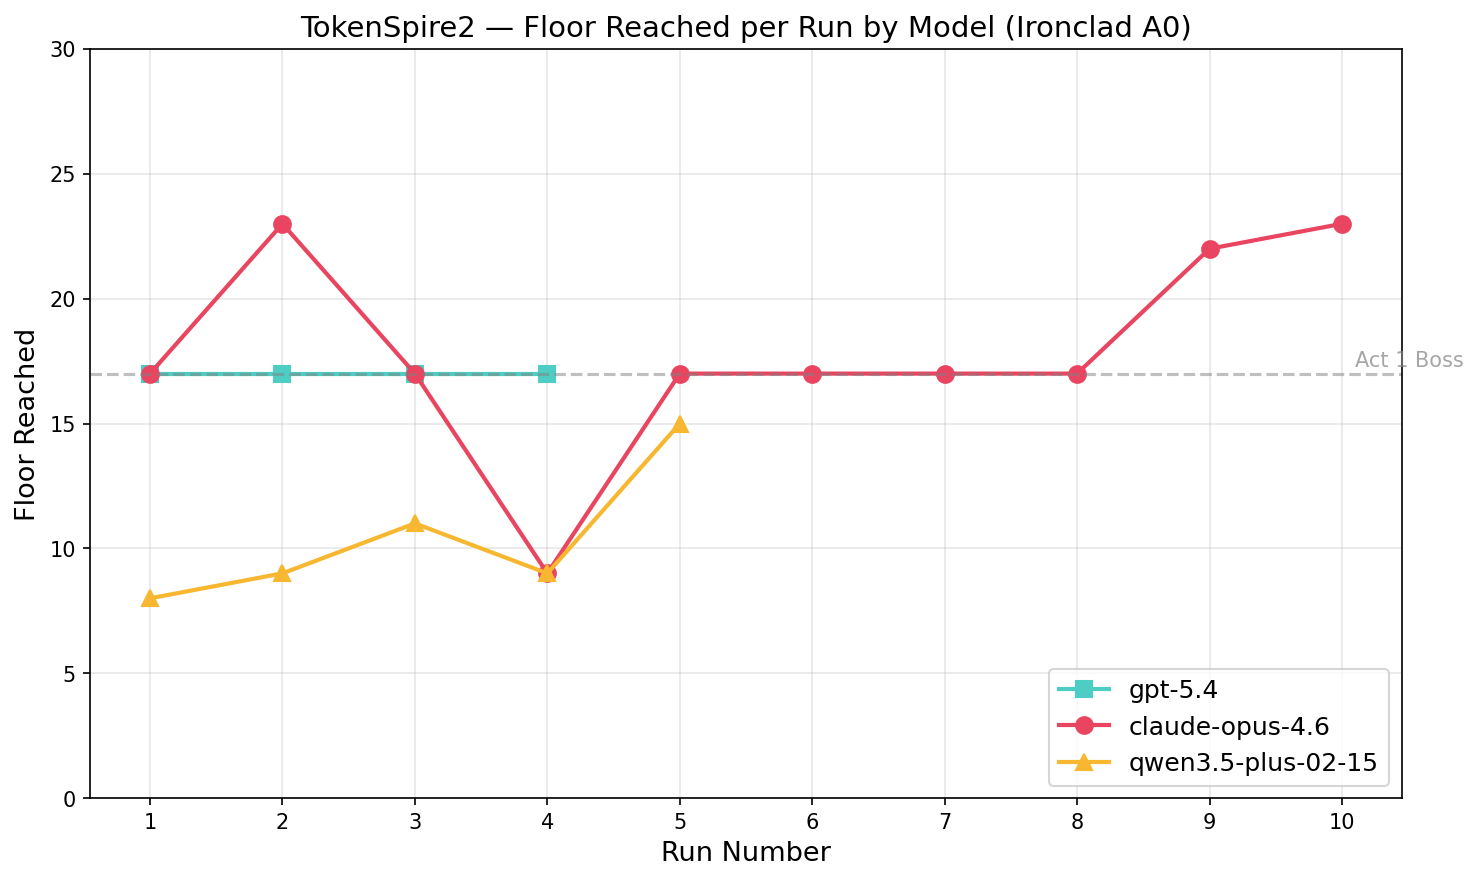
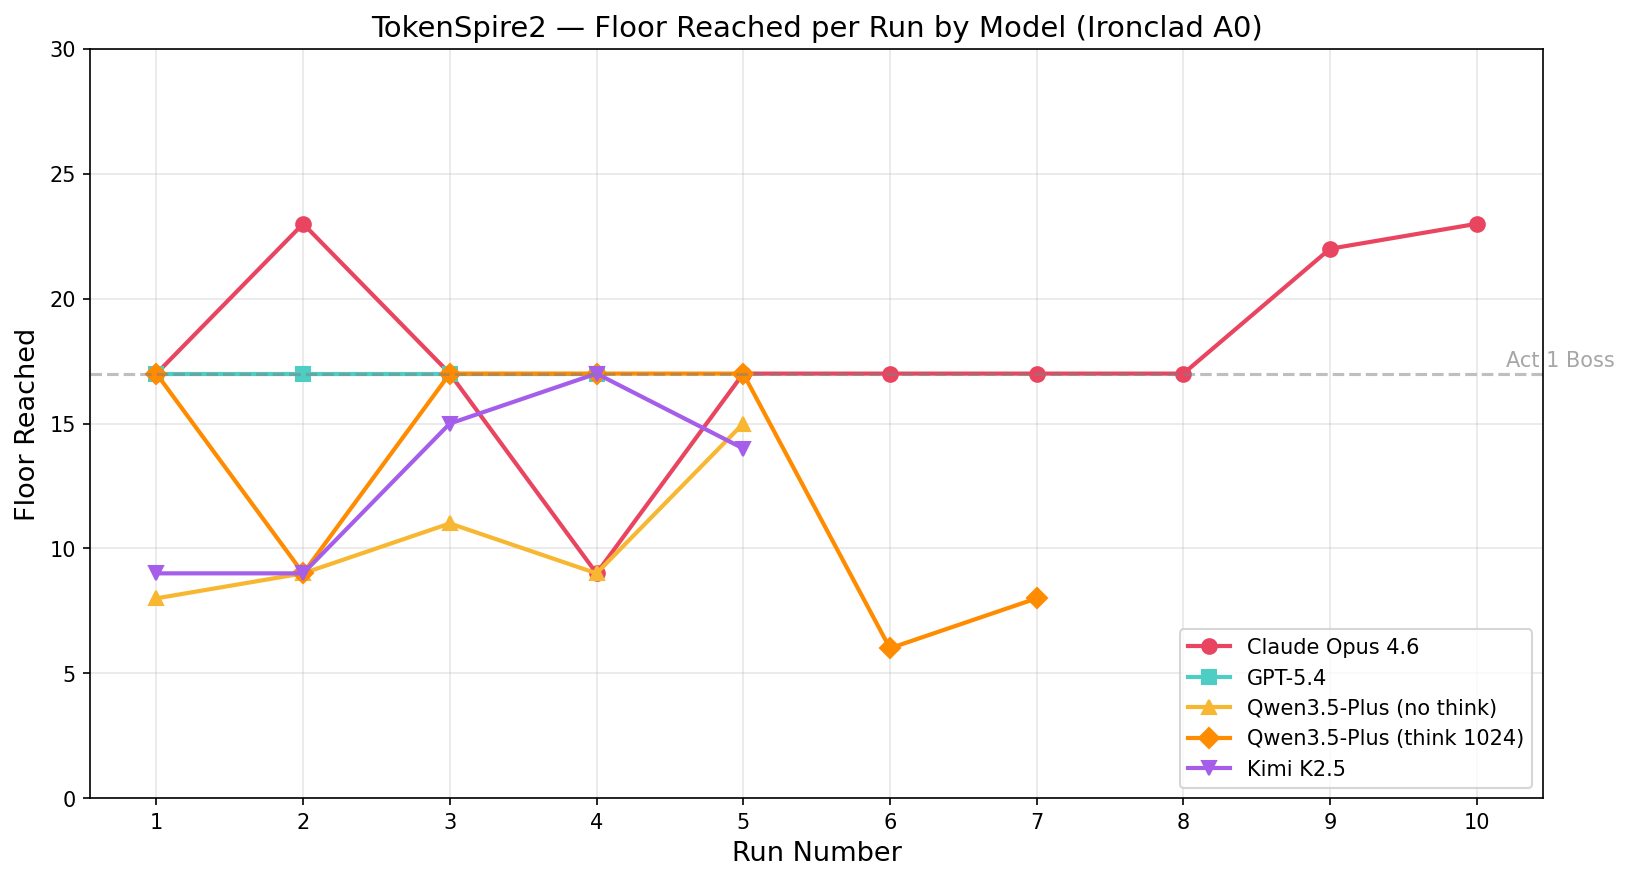
Update performance data: add Qwen3.5-Plus (think) and Kimi K2.5 results

diff --git a/README_en.md b/README_en.md
@@ -31,11 +31,15 @@ An autonomous Slay the Spire 2 mod that plays through entire runs using LLM-powe
 |-------|------|-----------|------------|-----------------|
 | Claude Opus 4.6 | 10 | 17.2 | 23 | 3/10 |
 | GPT-5.4 | 4 | 17.0 | 17 | 0/4 |
-| Qwen3.5-Plus | 5 | 10.4 | 15 | 0/5 |
+| Qwen3.5-Plus (think 1024) | 7 | 13.0 | 17 | 0/7 |
+| Kimi K2.5 | 5 | 12.8 | 17 | 0/5 |
+| Qwen3.5-Plus (no think) | 5 | 10.4 | 15 | 0/5 |
 
 - **Claude Opus 4.6** performed best — 3 out of 10 runs broke past the Act 1 Boss into Act 2 (reaching floor 23), with an upward trend in later runs
 - **GPT-5.4** consistently reached the Act 1 Boss (floor 17) but failed to defeat it in all 4 runs
-- **Qwen3.5-Plus** averaged around floor 10, struggling mainly with Elite fights and regular monsters
+- **Qwen3.5-Plus (think 1024)** significantly improved with thinking enabled — 4 out of 7 runs reached the Boss, though performance was inconsistent in later runs
+- **Kimi K2.5** performed similarly to Qwen with thinking, reaching the Boss once
+- **Qwen3.5-Plus (no think)** averaged around floor 10 — thinking capability had a clear positive impact on performance
 
 ### Claude Opus 4.6 — First Session (4 Runs, Ironclad A0)
 

diff --git a/README.md b/README.md
@@ -31,11 +31,15 @@
 |------|------|----------|----------|-----------------|
 | Claude Opus 4.6 | 10 | 17.2 | 23 | 3/10 |
 | GPT-5.4 | 4 | 17.0 | 17 | 0/4 |
-| Qwen3.5-Plus | 5 | 10.4 | 15 | 0/5 |
+| Qwen3.5-Plus（思考 1024） | 7 | 13.0 | 17 | 0/7 |
+| Kimi K2.5 | 5 | 12.8 | 17 | 0/5 |
+| Qwen3.5-Plus（无思考） | 5 | 10.4 | 15 | 0/5 |
 
 - **Claude Opus 4.6** 表现最佳，10 局中有 3 局突破了第一幕 Boss 进入第二幕（最高第 23 层），且后期表现呈上升趋势
 - **GPT-5.4** 稳定到达第一幕 Boss（第 17 层），但 4 局均未能击败 Boss
-- **Qwen3.5-Plus** 平均在第 10 层左右阵亡，主要困难在于精英战和普通怪物
+- **Qwen3.5-Plus（思考 1024）** 开启思考后明显提升，7 局中有 4 局到达 Boss，但后期出现波动
+- **Kimi K2.5** 表现与 Qwen 思考版相近，有一局到达 Boss
+- **Qwen3.5-Plus（无思考）** 平均在第 10 层左右阵亡，思考能力对其表现有显著影响
 
 ### Claude Opus 4.6 — 首次会话（4 局，铁甲战士 A0）
 
